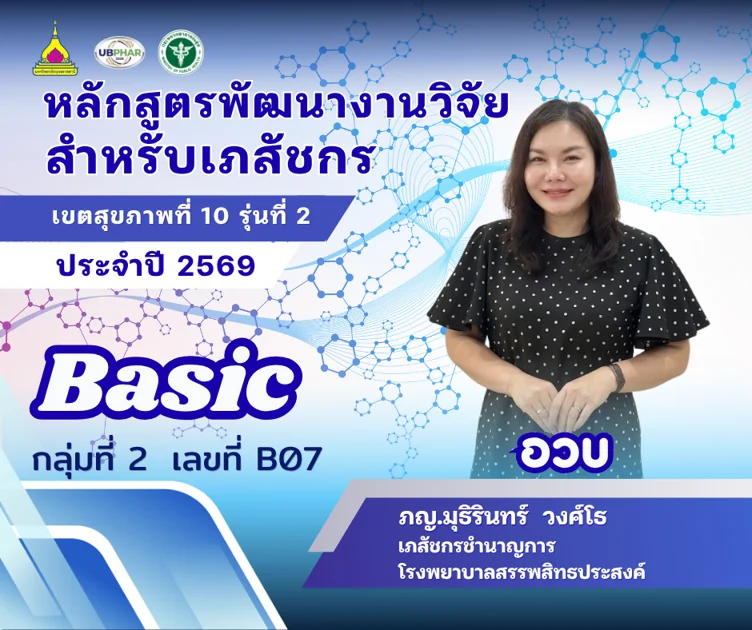
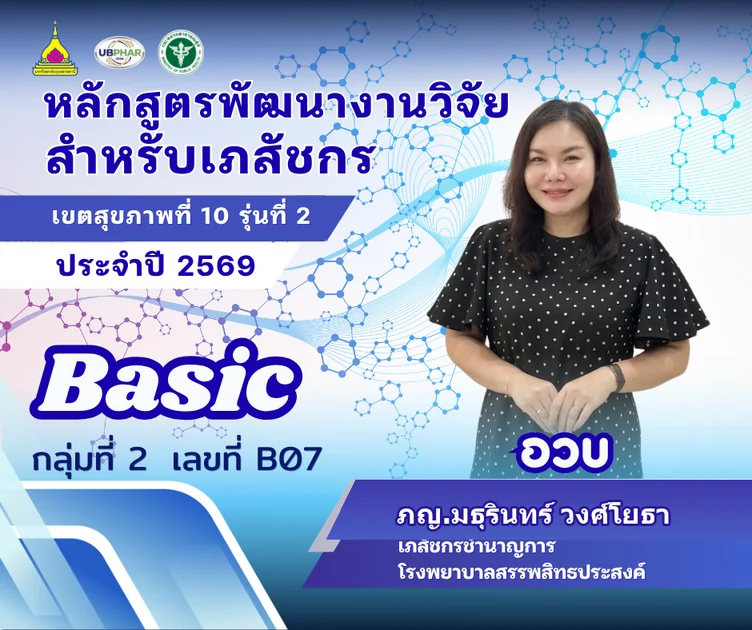
Align confirmed researcher names and B07 artwork

Changed region(s): [[0.4282, 0.754, 1.0, 0.8746]]

diff --git a/portfolio.html b/portfolio.html
@@ -1,2 +1,2 @@
 <!DOCTYPE html><html lang="th"><head><meta charset="UTF-8"><meta name="viewport" content="width=device-width,initial-scale=1"><meta name="theme-color" content="#03045e"><title>Portfolio นักวิจัย — Research 10 — หลักสูตรพัฒนางานวิจัยสำหรับเภสัชกร รุ่นที่ 2</title><meta name="description" content="หลักสูตรพัฒนางานวิจัยสำหรับเภสัชกร เขตสุขภาพที่ 10 รุ่นที่ 2 เอกสาร วิดีโอ และผลงานนักวิจัย"><link rel="preconnect" href="https://fonts.googleapis.com"><link rel="preconnect" href="https://fonts.gstatic.com" crossorigin><link href="https://fonts.googleapis.com/css2?family=K2D:wght@300;400;500;600;700;800&display=swap" rel="stylesheet"><link rel="stylesheet" href="assets/site.css?v=4151b0ca4c77"><script src="assets/site.js?v=c0a868937370" defer></script><link rel="stylesheet" href="assets/landing-refinement.css?v=8daf1639f411"><link rel="stylesheet" href="assets/orbit-edition.css?v=c585d2d60537"><link rel="stylesheet" href="assets/content-update.css?v=71b2dd23cb0a">
-<link rel="stylesheet" href="assets/feature-badge.css?v=78a7ec01bbcc"></head><body class="portfolio-page"><a class="skip-link" href="#main">ข้ามไปเนื้อหา</a><header class="site-header"><div class="shell nav-inner"><a class="brand" href="index.html" aria-label="หน้าหลักหลักสูตรพัฒนางานวิจัย"><span class="brand-logos"><img src="assets/rx-logo.png" alt="ผู้พัฒนาหลักสูตร" width="53" height="40"><img src="assets/partners-logo.png" alt="หน่วยงานสนับสนุน" width="76" height="40"></span><span class="brand-title">RESEARCH <b>10</b><small>PHARMACIST · CLASS 02</small></span></a><button class="menu-toggle" aria-expanded="false" aria-controls="primary-nav" aria-label="เปิดเมนู">☰</button><nav id="primary-nav" aria-label="เมนูหลัก"><a href="index.html">หน้าหลัก</a><a href="documents.html">เอกสารการเรียน</a><a href="portfolio.html">Portfolio นักวิจัย <span aria-hidden="true">↗</span></a><a href="game.html" class="game-nav-link">เกมนักวิจัย <span aria-hidden="true">✧</span><span class="feature-badge">New Feature</span></a></nav></div></header><main id="main"><section class="portfolio-hero"><div class="hero-grid-bg" aria-hidden="true"></div><div class="shell"><p class="eyebrow"><span class="status-dot"></span> OUR RESEARCH COMMUNITY</p><div class="portfolio-title-row"><div><h1>ค้นพบผู้คน<br><span class="gradient-text">เบื้องหลังงานวิจัย<span class="cyan-dot">.</span></span></h1><p>เชื่อมโยงความรู้ แลกเปลี่ยนประสบการณ์<br>และเข้าถึงผลงานของนักวิจัยในเขตสุขภาพที่ 10</p></div><div class="community-count"><strong>80<span>คน</span></strong><span>2 ระดับหลักสูตร · 16 กลุ่มวิจัย</span><div class="mini-avatars" aria-hidden="true"><img src="assets/portraits/A01-thumb.webp" alt=""><img src="assets/portraits/A02-thumb.webp" alt=""><img src="assets/portraits/B01-thumb.webp" alt=""><span>+77</span></div></div></div></div></section><section class="shell portfolio-workspace"><nav id="breadcrumbs" class="breadcrumbs" aria-label="ลำดับหน้า"><span>Portfolio นักวิจัย</span></nav><div id="portfolio-app" aria-busy="true"><div class="loading-state" role="status">กำลังโหลดรายชื่อนักวิจัย…</div></div><noscript><p>กรุณาเปิด JavaScript เพื่อเลือกกลุ่มนักวิจัย หรือ <a href="https://drive.google.com/drive/folders/1fvD9AZDzTBhdlqf7MebaH68sVqptJ_xY">เปิดโฟลเดอร์ Portfolio ใน Google Drive</a></p></noscript><p class="drive-note">↗ โฟลเดอร์ผลงานเปิดใน Google Drive ในแท็บใหม่</p></section></main><footer class="site-footer"><div class="shell footer-top"><div><a class="footer-wordmark" href="index.html">RESEARCH <span>10</span></a><p>ร่วมสร้างงานวิจัย เพื่อสุขภาพที่ดีของประชาชน</p><small>หลักสูตรพัฒนางานวิจัยสำหรับเภสัชกร เขตสุขภาพที่ 10 รุ่นที่ 2</small></div><div class="footer-links"><a href="https://he02.tci-thaijo.org/index.php/jhcp" target="_blank" rel="noopener noreferrer">Journal of Health Consumer Protection ↗</a><a href="https://www.med-tu.org/GCP_HSP/" target="_blank" rel="noopener noreferrer">อบรม GCP Online · มหาวิทยาลัยธรรมศาสตร์ ↗</a></div></div><div class="shell footer-bottom"><span>© 2026 Research 10 · รุ่นที่ 2</span><span>ความรู้เชื่อมโยง สู่การพัฒนาที่ยั่งยืน</span></div></footer><script src="assets/portfolio.js?v=12d9861d40bb" defer></script></body></html>
+<link rel="stylesheet" href="assets/feature-badge.css?v=78a7ec01bbcc"></head><body class="portfolio-page"><a class="skip-link" href="#main">ข้ามไปเนื้อหา</a><header class="site-header"><div class="shell nav-inner"><a class="brand" href="index.html" aria-label="หน้าหลักหลักสูตรพัฒนางานวิจัย"><span class="brand-logos"><img src="assets/rx-logo.png" alt="ผู้พัฒนาหลักสูตร" width="53" height="40"><img src="assets/partners-logo.png" alt="หน่วยงานสนับสนุน" width="76" height="40"></span><span class="brand-title">RESEARCH <b>10</b><small>PHARMACIST · CLASS 02</small></span></a><button class="menu-toggle" aria-expanded="false" aria-controls="primary-nav" aria-label="เปิดเมนู">☰</button><nav id="primary-nav" aria-label="เมนูหลัก"><a href="index.html">หน้าหลัก</a><a href="documents.html">เอกสารการเรียน</a><a href="portfolio.html">Portfolio นักวิจัย <span aria-hidden="true">↗</span></a><a href="game.html" class="game-nav-link">เกมนักวิจัย <span aria-hidden="true">✧</span><span class="feature-badge">New Feature</span></a></nav></div></header><main id="main"><section class="portfolio-hero"><div class="hero-grid-bg" aria-hidden="true"></div><div class="shell"><p class="eyebrow"><span class="status-dot"></span> OUR RESEARCH COMMUNITY</p><div class="portfolio-title-row"><div><h1>ค้นพบผู้คน<br><span class="gradient-text">เบื้องหลังงานวิจัย<span class="cyan-dot">.</span></span></h1><p>เชื่อมโยงความรู้ แลกเปลี่ยนประสบการณ์<br>และเข้าถึงผลงานของนักวิจัยในเขตสุขภาพที่ 10</p></div><div class="community-count"><strong>80<span>คน</span></strong><span>2 ระดับหลักสูตร · 16 กลุ่มวิจัย</span><div class="mini-avatars" aria-hidden="true"><img src="assets/portraits/A01-thumb.webp" alt=""><img src="assets/portraits/A02-thumb.webp" alt=""><img src="assets/portraits/B01-thumb.webp" alt=""><span>+77</span></div></div></div></div></section><section class="shell portfolio-workspace"><nav id="breadcrumbs" class="breadcrumbs" aria-label="ลำดับหน้า"><span>Portfolio นักวิจัย</span></nav><div id="portfolio-app" aria-busy="true"><div class="loading-state" role="status">กำลังโหลดรายชื่อนักวิจัย…</div></div><noscript><p>กรุณาเปิด JavaScript เพื่อเลือกกลุ่มนักวิจัย หรือ <a href="https://drive.google.com/drive/folders/1fvD9AZDzTBhdlqf7MebaH68sVqptJ_xY">เปิดโฟลเดอร์ Portfolio ใน Google Drive</a></p></noscript><p class="drive-note">↗ โฟลเดอร์ผลงานเปิดใน Google Drive ในแท็บใหม่</p></section></main><footer class="site-footer"><div class="shell footer-top"><div><a class="footer-wordmark" href="index.html">RESEARCH <span>10</span></a><p>ร่วมสร้างงานวิจัย เพื่อสุขภาพที่ดีของประชาชน</p><small>หลักสูตรพัฒนางานวิจัยสำหรับเภสัชกร เขตสุขภาพที่ 10 รุ่นที่ 2</small></div><div class="footer-links"><a href="https://he02.tci-thaijo.org/index.php/jhcp" target="_blank" rel="noopener noreferrer">Journal of Health Consumer Protection ↗</a><a href="https://www.med-tu.org/GCP_HSP/" target="_blank" rel="noopener noreferrer">อบรม GCP Online · มหาวิทยาลัยธรรมศาสตร์ ↗</a></div></div><div class="shell footer-bottom"><span>© 2026 Research 10 · รุ่นที่ 2</span><span>ความรู้เชื่อมโยง สู่การพัฒนาที่ยั่งยืน</span></div></footer><script src="assets/portfolio.js?v=ff1619bdff79" defer></script></body></html>

diff --git a/assets/portfolio.js b/assets/portfolio.js
@@ -68,7 +68,7 @@
       if (!Array.isArray(data) || data.length !== 80 || new Set(data.map(m => m.code)).size !== 80 || !data.every(m =>
         /^[AB]\d{2}$/.test(m.code) && typeof m.name === 'string' && Object.hasOwn(tracks,m.track) && Number.isInteger(m.group) && m.group>=1 && m.group<=tracks[m.track].groups &&
         /^https:\/\/drive\.google\.com\/drive\/folders\/[A-Za-z0-9_-]+$/.test(m.folderUrl) &&
-        /^(Advance|Basic) \(\d+\)\.png$/.test(m.image))) throw new Error('Invalid directory');
+        /^(Advance|Basic) \(\d+\)(?: corrected)?\.png$/.test(m.image))) throw new Error('Invalid directory');
       members = data; ready = true; render();
     } catch {
       app.innerHTML = '<div class="empty-state" role="alert"><h3>โหลดรายชื่อไม่สำเร็จ</h3><p>ตรวจสอบการเชื่อมต่อ แล้วลองอีกครั้ง</p><button class="button" id="retry-load" type="button">ลองอีกครั้ง</button><p><a class="text-link" href="https://drive.google.com/drive/folders/1fvD9AZDzTBhdlqf7MebaH68sVqptJ_xY" target="_blank" rel="noopener">เปิดโฟลเดอร์ Portfolio ใน Google Drive ↗</a></p></div>';

diff --git a/DEVELOPMENT.md b/DEVELOPMENT.md
@@ -18,7 +18,9 @@ Open http://127.0.0.1:4173/ or /portfolio.html.
 - researchers.json maps stable member codes to names, original image files and verified Google Drive folder URLs.
 - Advanced: A01–A30, 30 members across 6 groups.
 - Basic: B01–B50, 50 members across 10 groups.
-- B08 and B11 have now been added by the project owner. B11 is นางสาวศุภารัตน์ พิลาลัย (บิว), Basic group 3; use the supplied Basic (11).png. Do not reuse the old 8.jpg / 11.jpg overrides: they show B09 and B13.
+- B08 and B11 have now been added by the project owner. B08 is ภญ.ขัตติยา บุญรอง (จอย), Basic group 2; B11 is นางสาวศุภารัตน์ พิลาลัย (บิว), Basic group 3; use the supplied Basic (8).png and Basic (11).png. Do not reuse the old 8.jpg / 11.jpg overrides: they show B09 and B13.
+- Confirmed name corrections are keyed by member code, so removals or insertions cannot shift later people: B07 ภญ.มธุรินทร์ วงศ์โยธา, B24 ภญ.ปริศนา วงศ์ผาคุณ, B34 ภก.วิรัตน์ พวงจันทร์, and B50 ภญ.วลัยพร แปลงมาลย์. Their supplied Basic artwork is the display reference. The attendance PDF remains an older source for B08/B11/B34/B50; do not overwrite these confirmed corrections with it.
+- B07's corrected artwork is stored as `Basic (7) corrected.png`; the original `Basic (7).png` is retained unchanged for traceability. Its optimized `assets/portraits/B07.webp` and thumbnail are generated from the corrected artwork.
 - Names and group membership come from the existing revised attendance PDF. Member codes, not display names, identify memberships.
 - drive-folders.json records the existing parent, two course folders and 16 group folders. Each group contains its individual member folders.
 - No sharing permissions were changed. New folders inherit the supplied parent folder's access.
